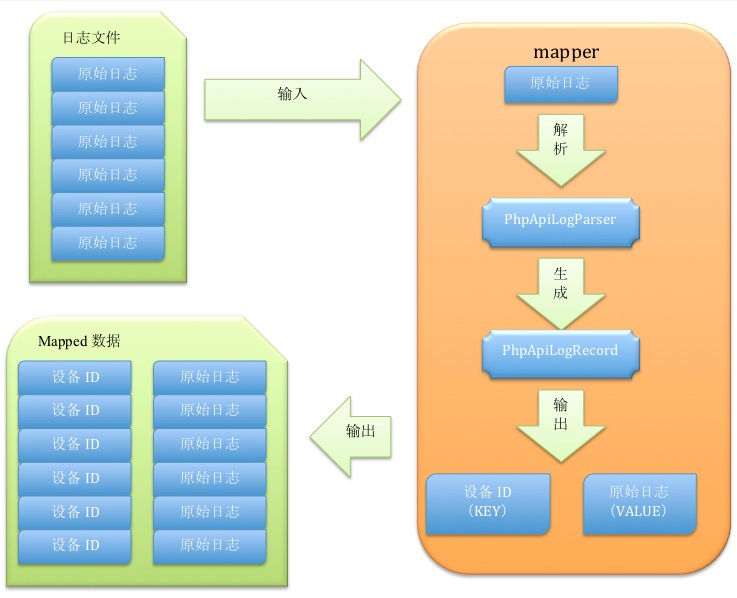
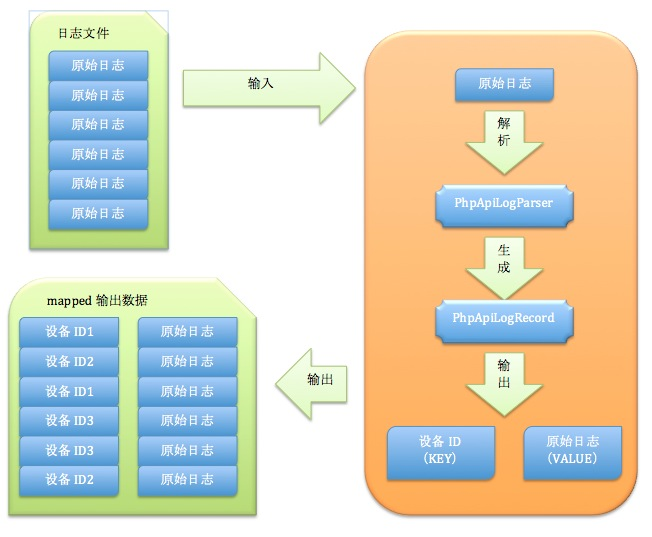
ch

Changed region(s): [[0.0, 0.0298, 1.0, 1.0], [0.0307, 0.0, 0.5215, 0.4767], [0.0613, 0.0, 0.092, 0.0298]]

diff --git a/_posts/2012-08-22-hadoop-stat-part3.md b/_posts/2012-08-22-hadoop-stat-part3.md
@@ -17,4 +17,7 @@ published: true
 下面是组织session的mapper非常简单的工作流程：  
 ![组织session的mapper工作流](/assets/organize_session_mapper_workflow.png)    
 
+如图所示，mapper做的事情就是先把日志解析一次，提取每条日志中的设备ID，然后以设备ID为KEY来输出数据。map的过程很简单，接下来是reduce过程的示意图：  
+![组织session的reducer工作流1](/assets/organize_session_reducer_workflow1.png)  
+上图主要是展示Hadoop shuffle的效果，而且值得一说的是，并非所有经过shuffle之后的reduce输入数据文件都只有一个设备ID作为KEY，只是图上只展示一个设备ID而已，只要两个设备ID经过partition算法后（默认使用全键HASH）得出相同的值，就会落到同一个reduce输入数据文件中，并且按设备ID排序好。
 
